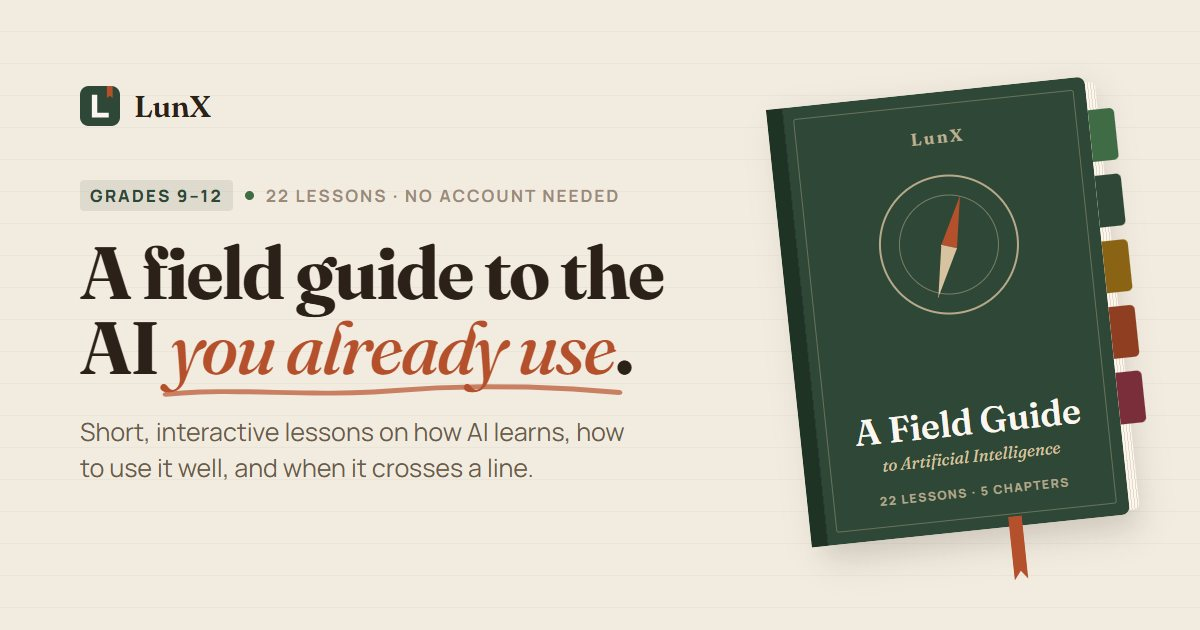
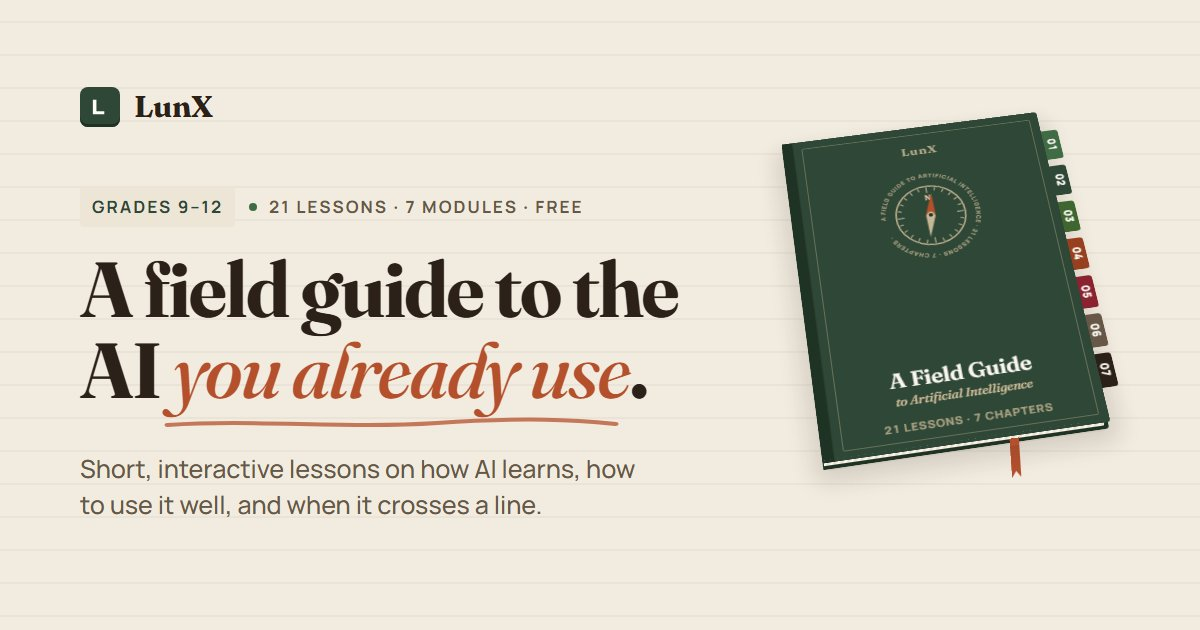
Bring the share image and two page descriptions up to the real course
- og-image.jpg still advertised "22 lessons", "5 chapters" and "no
  account needed". It is re-rendered at 1200x630 in the same design from
  the site's tokens and the real field guide, with every figure read from
  the course data: "Grades 9-12 · 21 lessons · 7 modules · free", and the
  book reads "21 lessons · 7 chapters".
- The About and course descriptions said 22 lessons; site.js now reads
  the count from learnData (TOTAL_LESSONS), so it cannot go stale again.
  The course description no longer says progress saves "in your
  browser", which is not true of the connected build: "progress saves as
  you go".

diff --git a/src/site.js b/src/site.js
@@ -15,6 +15,8 @@
    Node, so nothing here may touch the DOM at import time.
    ═══════════════════════════════════════════════════════════════════════════ */
 
+import { TOTAL_LESSONS } from './data/learnData.js'
+
 export const SITE = {
   name: 'LunX',
   /* Where the build is published (GitHub Pages, deployed by CI). */
@@ -65,7 +67,7 @@ export const ROUTES = [
     page: 'about',
     path: 'about/',
     title: 'About LunX · The story, the course and the TSA brief',
-    description: 'Why LunX looks like a printed field guide, what its 22-lesson AI course covers, how a lesson works, and how it answers the 2026–27 TSA Webmaster theme.',
+    description: `Why LunX looks like a printed field guide, what its ${TOTAL_LESSONS}-lesson AI course covers, how a lesson works, and how it answers the 2026–27 TSA Webmaster theme.`,
     sitemap: { priority: '0.8', changefreq: 'monthly' },
   },
   {
@@ -110,7 +112,7 @@ export const ROUTES = [
     page: 'learn',
     path: 'learn/',
     title: 'The course · LunX',
-    description: 'Start the LunX course: 22 short, interactive lessons on how AI works, from what counts as AI to the ethics of using it. Free account; progress saves in your browser.',
+    description: `Start the LunX course: ${TOTAL_LESSONS} short, interactive lessons on how AI works, from what counts as AI to the ethics of using it. Free account; progress saves as you go.`,
     sitemap: { priority: '0.9', changefreq: 'weekly' },
   },
   {
